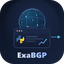
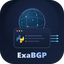
assets: 图标改为多路宣告——3 条路由条目 + 3 个宣告箭头
- 控制台窗口内展示 3 条待下发路由（不同长度的条目 + 彩色前缀点）
- 右侧对应 3 个 BGP UPDATE 箭头，逐条送出
- 去掉原单箭头与趋势线，语义更聚焦

diff --git a/README.md b/README.md
@@ -172,4 +172,4 @@ docker run -d --name exabgp-v6 --network host \
 
 ---
 
-<sub>图标说明：地球经纬网格（区域 / 全球 IP 网段）+ 控制台窗口（WebUI）+ Python 标识（实现语言）+ 右侧虚线箭头（把 BGP UPDATE 播给 CE），底部为 ExaBGP 字标。源文件 `assets/icon.svg`，可直接用于文档、镜像标注与 favicon。</sub>
+<sub>图标说明：地球经纬网格（区域 / 全球 IP 网段）+ 控制台窗口（WebUI，内含 Python 标识与待下发的路由条目）+ 右侧多条宣告箭头（逐条把 BGP UPDATE 播给 CE）+ 底部 ExaBGP 字标。源文件 `assets/icon.svg`，可直接用于文档、镜像标注与 favicon。</sub>
